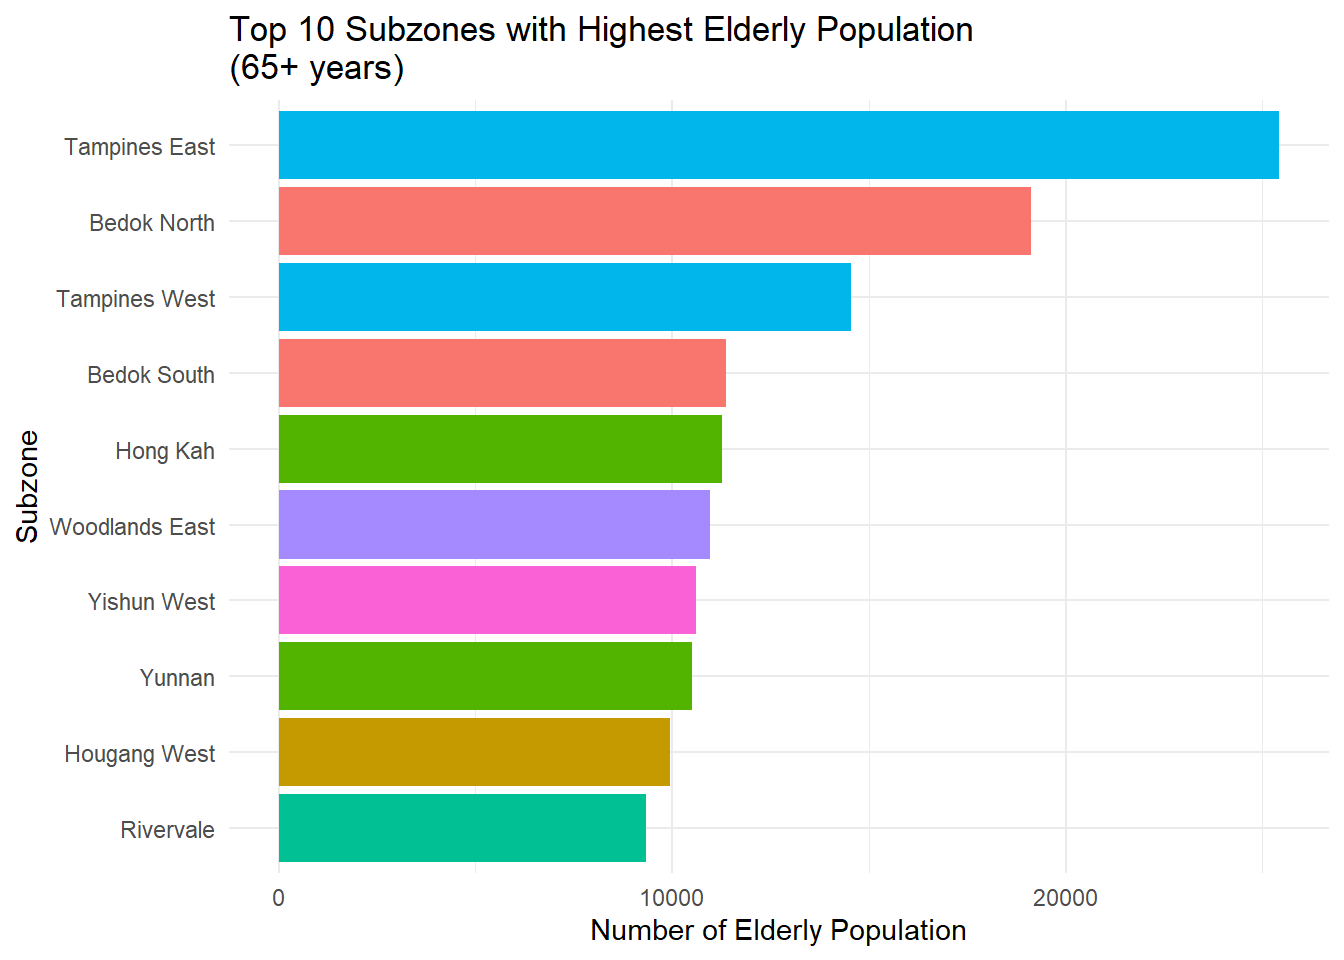
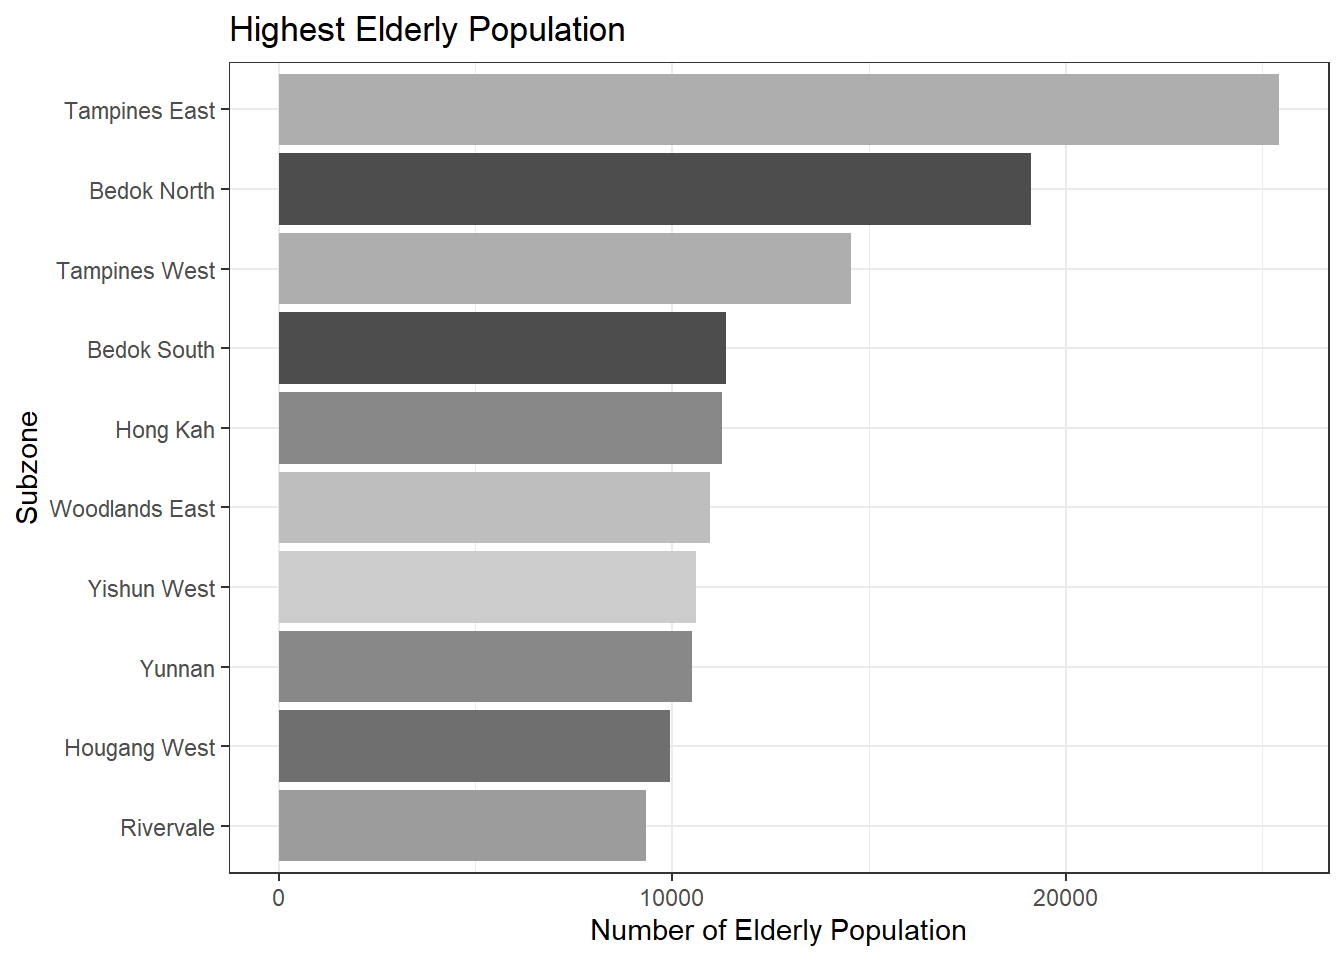
Commit after editing take-home exercise 1

diff --git a/_site/Take-home_Ex/Take-home_Ex01/Take-home_Ex01.html b/_site/Take-home_Ex/Take-home_Ex01/Take-home_Ex01.html
@@ -243,11 +243,11 @@ pre > code.sourceCode > span > a:first-child::before { text-decoration: underlin
   <li><a href="#univariate-analysis" id="toc-univariate-analysis" class="nav-link" data-scroll-target="#univariate-analysis">5. Univariate Analysis</a>
   <ul class="collapse">
   <li><a href="#top-10-subzones" id="toc-top-10-subzones" class="nav-link" data-scroll-target="#top-10-subzones">5.1 Top 10 subzones</a></li>
-  <li><a href="#comparison-between-subzones-and" id="toc-comparison-between-subzones-and" class="nav-link" data-scroll-target="#comparison-between-subzones-and">5.2 Comparison between Subzones and</a></li>
+  <li><a href="#section-2" id="toc-section-2" class="nav-link" data-scroll-target="#section-2">5.2</a></li>
   </ul></li>
   <li><a href="#explorartory-data-analysis" id="toc-explorartory-data-analysis" class="nav-link" data-scroll-target="#explorartory-data-analysis">6. Explorartory Data Analysis</a>
   <ul class="collapse">
-  <li><a href="#section-2" id="toc-section-2" class="nav-link" data-scroll-target="#section-2">6.1</a></li>
+  <li><a href="#section-3" id="toc-section-3" class="nav-link" data-scroll-target="#section-3">6.1</a></li>
   </ul></li>
   <li><a href="#summary" id="toc-summary" class="nav-link" data-scroll-target="#summary">7. Summary</a></li>
   <li><a href="#references-and-inspiration" id="toc-references-and-inspiration" class="nav-link" data-scroll-target="#references-and-inspiration">8. References and inspiration</a></li>
@@ -422,8 +422,8 @@ pre > code.sourceCode > span > a:first-child::before { text-decoration: underlin
 <span id="cb3-10"><a href="#cb3-10" aria-hidden="true" tabindex="-1"></a><span class="st">  C3 --&gt; C4[Subzone]</span></span>
 <span id="cb3-11"><a href="#cb3-11" aria-hidden="true" tabindex="-1"></a><span class="st">"</span>)</span></code><button title="Copy to Clipboard" class="code-copy-button"><i class="bi"></i></button></pre></div>
 <div class="cell-output-display">
-<div class="DiagrammeR html-widget html-fill-item" id="htmlwidget-1c557cea61a99874bd12" style="width:100%;height:464px;"></div>
-<script type="application/json" data-for="htmlwidget-1c557cea61a99874bd12">{"x":{"diagram":"\ngraph TD\n  A[DOS data set] --> B1{Dependency Burden}\n  A --> B2{Urban Planning and Housing Needs}\n  \n  B1 --> C1[Age]\n  B2 --> C3[Planning Area]\n  C3 --> C4[Subzone]\n"},"evals":[],"jsHooks":[]}</script>
+<div class="DiagrammeR html-widget html-fill-item" id="htmlwidget-027560e633e0b50538a4" style="width:100%;height:464px;"></div>
+<script type="application/json" data-for="htmlwidget-027560e633e0b50538a4">{"x":{"diagram":"\ngraph TD\n  A[DOS data set] --> B1{Dependency Burden}\n  A --> B2{Urban Planning and Housing Needs}\n  \n  B1 --> C1[Age]\n  B2 --> C3[Planning Area]\n  C3 --> C4[Subzone]\n"},"evals":[],"jsHooks":[]}</script>
 </div>
 </div>
 <section id="variable-selection" class="level2">
@@ -559,14 +559,15 @@ pre > code.sourceCode > span > a:first-child::before { text-decoration: underlin
 <span id="cb6-14"><a href="#cb6-14" aria-hidden="true" tabindex="-1"></a>  <span class="fu">geom_col</span>() <span class="sc">+</span></span>
 <span id="cb6-15"><a href="#cb6-15" aria-hidden="true" tabindex="-1"></a>  <span class="fu">coord_flip</span>() <span class="sc">+</span></span>
 <span id="cb6-16"><a href="#cb6-16" aria-hidden="true" tabindex="-1"></a>  <span class="fu">labs</span>(</span>
-<span id="cb6-17"><a href="#cb6-17" aria-hidden="true" tabindex="-1"></a>    <span class="at">title =</span> <span class="st">"Top 10 Subzones with Highest Elderly Population</span><span class="sc">\n</span><span class="st">(65+ years)"</span>,</span>
+<span id="cb6-17"><a href="#cb6-17" aria-hidden="true" tabindex="-1"></a>    <span class="at">title =</span> <span class="st">"Highest Elderly Population"</span>,</span>
 <span id="cb6-18"><a href="#cb6-18" aria-hidden="true" tabindex="-1"></a>    <span class="at">x =</span> <span class="st">"Subzone"</span>,</span>
 <span id="cb6-19"><a href="#cb6-19" aria-hidden="true" tabindex="-1"></a>    <span class="at">y =</span> <span class="st">"Number of Elderly Population"</span></span>
 <span id="cb6-20"><a href="#cb6-20" aria-hidden="true" tabindex="-1"></a>  ) <span class="sc">+</span></span>
-<span id="cb6-21"><a href="#cb6-21" aria-hidden="true" tabindex="-1"></a>  <span class="fu">theme_minimal</span>() <span class="sc">+</span></span>
-<span id="cb6-22"><a href="#cb6-22" aria-hidden="true" tabindex="-1"></a>  <span class="fu">theme</span>(<span class="at">legend.position =</span> <span class="st">"none"</span>)</span>
-<span id="cb6-23"><a href="#cb6-23" aria-hidden="true" tabindex="-1"></a></span>
-<span id="cb6-24"><a href="#cb6-24" aria-hidden="true" tabindex="-1"></a>e1<span class="co">#</span></span></code><button title="Copy to Clipboard" class="code-copy-button"><i class="bi"></i></button></pre></div>
+<span id="cb6-21"><a href="#cb6-21" aria-hidden="true" tabindex="-1"></a>  <span class="fu">scale_fill_grey</span>(<span class="at">start =</span> <span class="fl">0.3</span>, <span class="at">end =</span> <span class="fl">0.8</span>) <span class="sc">+</span>  <span class="co"># Use shades of grey</span></span>
+<span id="cb6-22"><a href="#cb6-22" aria-hidden="true" tabindex="-1"></a>  <span class="fu">theme_bw</span>() <span class="sc">+</span></span>
+<span id="cb6-23"><a href="#cb6-23" aria-hidden="true" tabindex="-1"></a>  <span class="fu">theme</span>(<span class="at">legend.position =</span> <span class="st">"none"</span>)</span>
+<span id="cb6-24"><a href="#cb6-24" aria-hidden="true" tabindex="-1"></a></span>
+<span id="cb6-25"><a href="#cb6-25" aria-hidden="true" tabindex="-1"></a>e1<span class="co">#</span></span></code><button title="Copy to Clipboard" class="code-copy-button"><i class="bi"></i></button></pre></div>
 <div class="cell-output-display">
 <div>
 <figure class="figure">
@@ -592,14 +593,15 @@ pre > code.sourceCode > span > a:first-child::before { text-decoration: underlin
 <span id="cb7-12"><a href="#cb7-12" aria-hidden="true" tabindex="-1"></a>  <span class="fu">geom_col</span>() <span class="sc">+</span></span>
 <span id="cb7-13"><a href="#cb7-13" aria-hidden="true" tabindex="-1"></a>  <span class="fu">coord_flip</span>() <span class="sc">+</span></span>
 <span id="cb7-14"><a href="#cb7-14" aria-hidden="true" tabindex="-1"></a>  <span class="fu">labs</span>(</span>
-<span id="cb7-15"><a href="#cb7-15" aria-hidden="true" tabindex="-1"></a>    <span class="at">title =</span> <span class="st">"Top 10 Subzones with Highest Young</span><span class="sc">\n</span><span class="st">Population (0–17 years)"</span>,</span>
+<span id="cb7-15"><a href="#cb7-15" aria-hidden="true" tabindex="-1"></a>    <span class="at">title =</span> <span class="st">"Highest Young Population"</span>,</span>
 <span id="cb7-16"><a href="#cb7-16" aria-hidden="true" tabindex="-1"></a>    <span class="at">x =</span> <span class="st">"Subzone"</span>,</span>
 <span id="cb7-17"><a href="#cb7-17" aria-hidden="true" tabindex="-1"></a>    <span class="at">y =</span> <span class="st">"Number of Young Population"</span></span>
 <span id="cb7-18"><a href="#cb7-18" aria-hidden="true" tabindex="-1"></a>  ) <span class="sc">+</span></span>
-<span id="cb7-19"><a href="#cb7-19" aria-hidden="true" tabindex="-1"></a>  <span class="fu">theme_minimal</span>() <span class="sc">+</span></span>
-<span id="cb7-20"><a href="#cb7-20" aria-hidden="true" tabindex="-1"></a>  <span class="fu">theme</span>(<span class="at">legend.position =</span> <span class="st">"none"</span>)</span>
-<span id="cb7-21"><a href="#cb7-21" aria-hidden="true" tabindex="-1"></a></span>
-<span id="cb7-22"><a href="#cb7-22" aria-hidden="true" tabindex="-1"></a>y1<span class="co">#</span></span></code><button title="Copy to Clipboard" class="code-copy-button"><i class="bi"></i></button></pre></div>
+<span id="cb7-19"><a href="#cb7-19" aria-hidden="true" tabindex="-1"></a>  <span class="fu">scale_fill_grey</span>(<span class="at">start =</span> <span class="fl">0.3</span>, <span class="at">end =</span> <span class="fl">0.8</span>) <span class="sc">+</span>  <span class="co"># Use shades of grey</span></span>
+<span id="cb7-20"><a href="#cb7-20" aria-hidden="true" tabindex="-1"></a>  <span class="fu">theme_bw</span>() <span class="sc">+</span></span>
+<span id="cb7-21"><a href="#cb7-21" aria-hidden="true" tabindex="-1"></a>  <span class="fu">theme</span>(<span class="at">legend.position =</span> <span class="st">"none"</span>)</span>
+<span id="cb7-22"><a href="#cb7-22" aria-hidden="true" tabindex="-1"></a></span>
+<span id="cb7-23"><a href="#cb7-23" aria-hidden="true" tabindex="-1"></a>y1<span class="co">#</span></span></code><button title="Copy to Clipboard" class="code-copy-button"><i class="bi"></i></button></pre></div>
 <div class="cell-output-display">
 <div>
 <figure class="figure">
@@ -626,14 +628,15 @@ pre > code.sourceCode > span > a:first-child::before { text-decoration: underlin
 <span id="cb8-13"><a href="#cb8-13" aria-hidden="true" tabindex="-1"></a>  <span class="fu">geom_col</span>() <span class="sc">+</span></span>
 <span id="cb8-14"><a href="#cb8-14" aria-hidden="true" tabindex="-1"></a>  <span class="fu">coord_flip</span>() <span class="sc">+</span></span>
 <span id="cb8-15"><a href="#cb8-15" aria-hidden="true" tabindex="-1"></a>  <span class="fu">labs</span>(</span>
-<span id="cb8-16"><a href="#cb8-16" aria-hidden="true" tabindex="-1"></a>    <span class="at">title =</span> <span class="st">"Top 10 Subzones with Highest Working Adults</span><span class="sc">\n</span><span class="st">Population (18–64 years)"</span>,</span>
+<span id="cb8-16"><a href="#cb8-16" aria-hidden="true" tabindex="-1"></a>    <span class="at">title =</span> <span class="st">"Highest Working Adults Population"</span>,</span>
 <span id="cb8-17"><a href="#cb8-17" aria-hidden="true" tabindex="-1"></a>    <span class="at">x =</span> <span class="st">"Subzone"</span>,</span>
 <span id="cb8-18"><a href="#cb8-18" aria-hidden="true" tabindex="-1"></a>    <span class="at">y =</span> <span class="st">"Number of Working Adults Population"</span></span>
 <span id="cb8-19"><a href="#cb8-19" aria-hidden="true" tabindex="-1"></a>  ) <span class="sc">+</span></span>
-<span id="cb8-20"><a href="#cb8-20" aria-hidden="true" tabindex="-1"></a>  <span class="fu">theme_minimal</span>() <span class="sc">+</span></span>
-<span id="cb8-21"><a href="#cb8-21" aria-hidden="true" tabindex="-1"></a>  <span class="fu">theme</span>(<span class="at">legend.position =</span> <span class="st">"none"</span>)</span>
-<span id="cb8-22"><a href="#cb8-22" aria-hidden="true" tabindex="-1"></a></span>
-<span id="cb8-23"><a href="#cb8-23" aria-hidden="true" tabindex="-1"></a>a1<span class="co">#</span></span></code><button title="Copy to Clipboard" class="code-copy-button"><i class="bi"></i></button></pre></div>
+<span id="cb8-20"><a href="#cb8-20" aria-hidden="true" tabindex="-1"></a>  <span class="fu">scale_fill_grey</span>(<span class="at">start =</span> <span class="fl">0.3</span>, <span class="at">end =</span> <span class="fl">0.8</span>) <span class="sc">+</span>  </span>
+<span id="cb8-21"><a href="#cb8-21" aria-hidden="true" tabindex="-1"></a>  <span class="fu">theme_bw</span>() <span class="sc">+</span></span>
+<span id="cb8-22"><a href="#cb8-22" aria-hidden="true" tabindex="-1"></a>  <span class="fu">theme</span>(<span class="at">legend.position =</span> <span class="st">"none"</span>)</span>
+<span id="cb8-23"><a href="#cb8-23" aria-hidden="true" tabindex="-1"></a></span>
+<span id="cb8-24"><a href="#cb8-24" aria-hidden="true" tabindex="-1"></a>a1<span class="co">#</span></span></code><button title="Copy to Clipboard" class="code-copy-button"><i class="bi"></i></button></pre></div>
 <div class="cell-output-display">
 <div>
 <figure class="figure">
@@ -657,14 +660,14 @@ pre > code.sourceCode > span > a:first-child::before { text-decoration: underlin
 </div>
 </div>
 </section>
-<section id="comparison-between-subzones-and" class="level2">
-<h2 class="anchored" data-anchor-id="comparison-between-subzones-and">5.2 Comparison between Subzones and</h2>
+<section id="section-2" class="level2">
+<h2 class="anchored" data-anchor-id="section-2">5.2</h2>
 </section>
 </section>
 <section id="explorartory-data-analysis" class="level1">
 <h1>6. Explorartory Data Analysis</h1>
-<section id="section-2" class="level2">
-<h2 class="anchored" data-anchor-id="section-2">6.1</h2>
+<section id="section-3" class="level2">
+<h2 class="anchored" data-anchor-id="section-3">6.1</h2>
 </section>
 </section>
 <section id="summary" class="level1">
